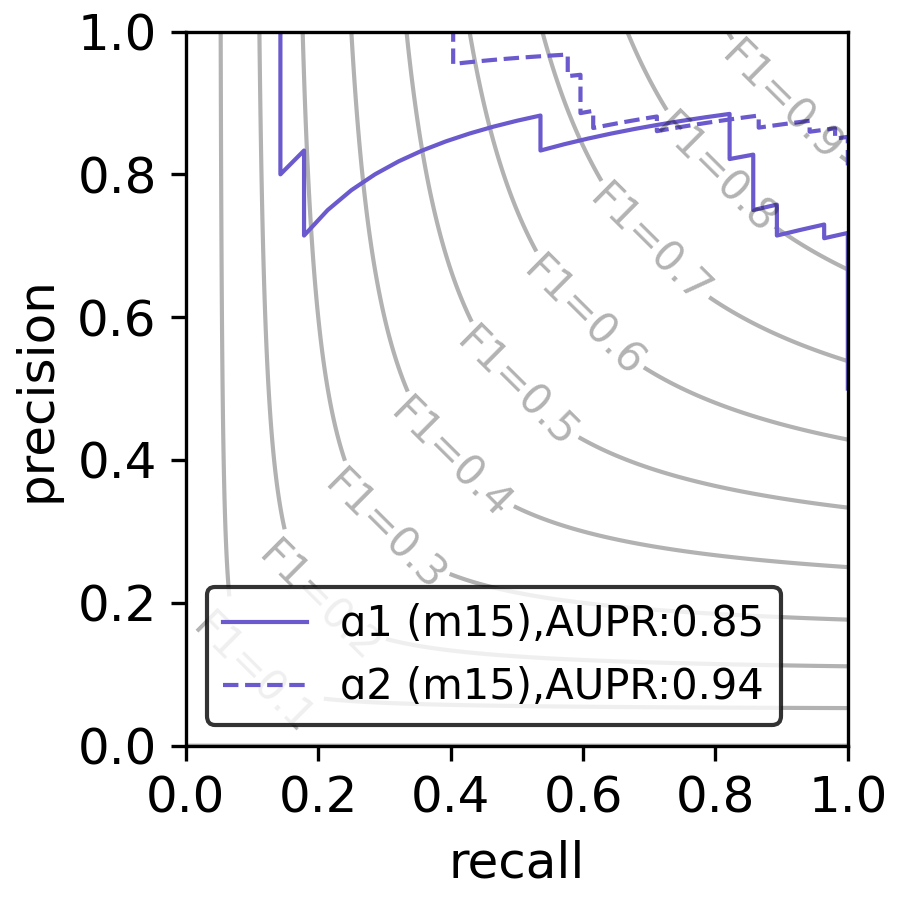
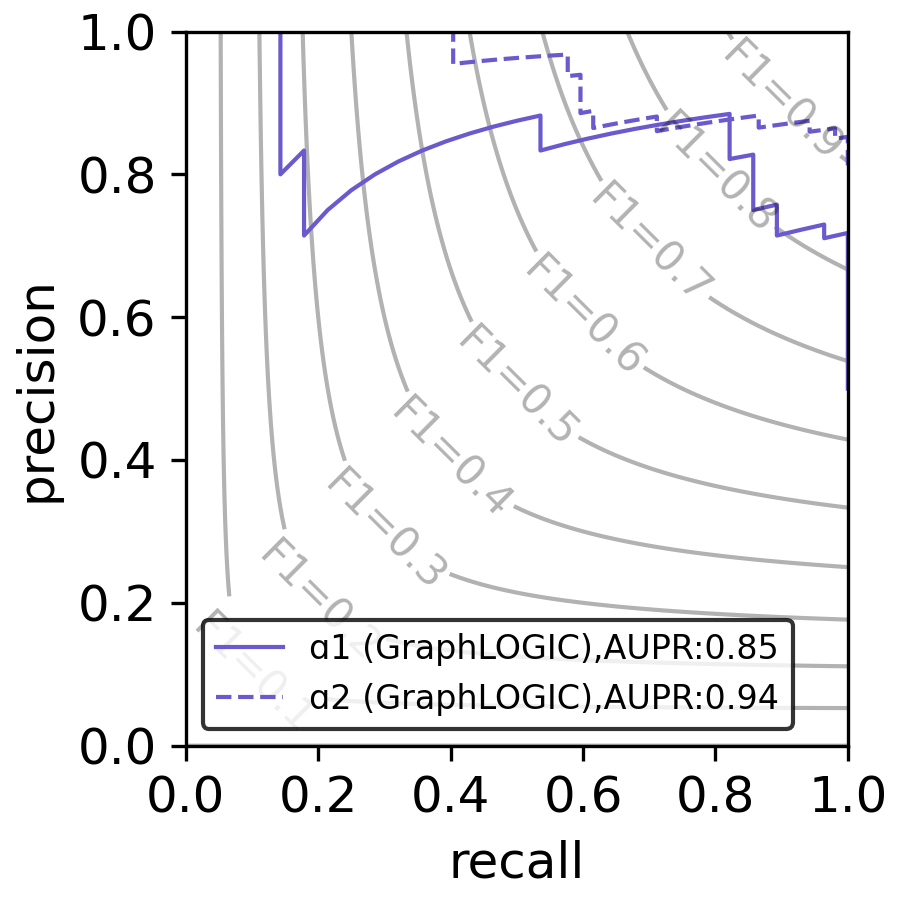
20240414

Changed region(s): [[0.2178, 0.6222, 0.9022, 0.84]]

diff --git a/predictor.py b/predictor.py
@@ -1,0 +1,162 @@
+import shutil
+import torch 
+from torch import nn
+import numpy as np 
+import pickle
+from argparse import ArgumentParser
+from model import GAT_n_tot
+from dataset import dataset_sel
+from scipy.spatial import distance_matrix
+from torch_geometric.data import InMemoryDataset
+from torch_geometric.data import Data
+from torch_geometric.loader import DataLoader
+
+# label #
+lethal_label = ["Lethal", "Non-Lethal"]
+
+# load graph #
+real_structure_a11 = np.load("./reference_structure/alpha1_1.npy")
+real_structure_a2 = np.load("./reference_structure/alpha2.npy")
+real_structure_a12 = np.load("./reference_structure/alpha1_2.npy")
+
+# load embedding #
+with open("./node_embedding/ma1_alpha1_bert.pt", "rb") as fp: 
+    ma1_alpha1 = pickle.load(fp)
+with open("./node_embedding/ma1_alpha2_bert.pt", "rb") as fp: 
+    ma1_alpha2 = pickle.load(fp)
+with open("./node_embedding/ma2_alpha1_bert.pt", "rb") as fp:
+    ma2_alpha1 = pickle.load(fp)
+with open("./node_embedding/ma2_alpha2_bert.pt", "rb") as fp: 
+        ma2_alpha2 = pickle.load(fp)
+
+# load pos and label #
+pos_tabel = np.load("./node_embedding/pos.npy").reshape(-1,1)
+type_tabel = np.load("./node_embedding/label.npy")
+
+# get edge index #
+def real_edge(pos,cutoff=12):
+    text_pos = int((pos-1)*3+12)
+    text_pos2 = int((pos-1)*3+9)
+    #print(text_pos)
+    a11 = real_structure_a11[text_pos-12:text_pos+15,:]
+    a12 = real_structure_a12[text_pos-12:text_pos+15,:]
+    if (pos==1):
+        a2 = real_structure_a2[text_pos2-9:text_pos2+15,:]
+    elif(pos>=335):
+        a2 = real_structure_a2[text_pos2-12:1026,:]
+    else:
+        a2 = real_structure_a2[text_pos2-12:text_pos2+15,:]
+    p_ = np.vstack((a11,a2))
+    tot_p_ = np.vstack((p_,a12))
+    dm = distance_matrix(tot_p_,tot_p_)
+    result = np.where((np.triu(dm,1)<=cutoff) & (np.triu(dm,1)!=0))
+
+    return np.array(np.vstack((result[0].T,result[1].T)))
+
+# get embedding node #
+def embedding_node(x1,x2,x3):
+    total_t = np.zeros((x1.shape[0]+x2.shape[0]+x3.shape[0],1024))
+    num = 0
+    for i in x1:
+        total_t[num,:] = i
+        num+=1
+    for i in x2:
+        total_t[num,:] = i
+        num+=1
+    for i in x3:
+        total_t[num,:] = i
+        num+=1
+    return total_t
+
+# get mutation type #
+def get_pos_type(t,p,tt,pt):
+    tn = mutation_embedding3(t)
+    tn_s = np.where(tt==tn)[0]
+    pt_s = np.where(pt==p)[0]
+    return np.intersect1d(tn_s,pt_s)[0]
+
+# mutation_embeddin #
+def mutation_embedding3(x1):
+    sequence_dict = {"Ala":"A" ,"Cys":"C","Asp":"D","Glu":"E","Pro":"P","Arg":"R","Ser":"S","Val":"V","Trp":"W"}
+    sequence_list = np.array(["A" ,"C","D","E","R","S","V","W","P"])
+    #amino_table[np.where(sequence_list == sequence_dict[x1])[0][0]] = 1
+    return np.where(sequence_list == sequence_dict[x1])[0][0]
+
+# data format #
+class predict_data(InMemoryDataset):
+    def __init__(self, pos, mutation, chain, root="./predict_data", transform = None, pre_transform = None):
+        self.pos = pos
+        self.mutation = mutation
+        self.chain = chain
+        super(predict_data, self).__init__(root, transform, pre_transform)
+        self.data, self.slices = torch.load(self.processed_paths[0])
+    
+    @property
+    def processed_file_names(self):
+        return ['data.pt']
+    
+    def process(self):
+
+        triplet_num = int(((((int(args.pos))-13)/3)+5))
+
+        edge = real_edge(triplet_num,cutoff=12)
+        edge_index = torch.tensor(edge, dtype=torch.long)
+
+        if args.chn=="a1":
+            pt_index = get_pos_type(args.mut,triplet_num,type_tabel,pos_tabel)
+            x = torch.tensor(embedding_node(ma1_alpha1[pt_index],ma1_alpha2[pt_index],ma1_alpha1[pt_index]), dtype=torch.float)
+        elif args.chn=="a2":
+            pt_index = get_pos_type(args.mut,triplet_num,type_tabel,pos_tabel)
+            x = torch.tensor(embedding_node(ma2_alpha1[pt_index],ma2_alpha2[pt_index],ma2_alpha1[pt_index]), dtype=torch.float)
+        else:
+            print("Please input correct argument for chain")
+
+        data_list = []
+        data_list.append(Data(x=x,edge_index=edge_index))
+        self.dataset = data_list
+
+        if self.pre_filter is not None:
+            data_list = [data for data in data_list if self.pre_filter(data)]
+
+        if self.pre_transform is not None:
+            data_list = [self.pre_transform(data) for data in data_list]
+
+        data, slices = self.collate(data_list)
+        torch.save((data, slices), self.processed_paths[0])
+    def get_dataset(self):
+        return self.dataset
+
+# model path #
+save_dir = "./bert4_final_d15/"
+
+# load dataset (only or model initialization) #
+data = dataset_sel("bert4_total_real")
+train_dataset, test_dataset = data.load()
+
+# initial model #
+model = GAT_n_tot(test_dataset,1)
+model.load_state_dict(torch.load(f'{save_dir}model{3}_dict.pt',
+            map_location='cpu'))
+
+
+# load input argument #
+parser = ArgumentParser()
+parser.add_argument("-p",dest="pos", help="where position?")
+parser.add_argument("-m",dest="mut", help="what substitute type? (Ser, Arg ...)")
+parser.add_argument("-c",dest="chn", help="which chains? (a1,a2)")
+args = parser.parse_args()
+
+# data process #
+data = predict_data(args.pos, args.mut, args.chn)
+full_loader = DataLoader(data, len(test_dataset), shuffle=False)
+
+# prediction #
+with torch.no_grad():
+    model.eval()
+    for data_ in full_loader:
+        out = model(data_ ,data_ .edge_index)
+        out = nn.Softmax(dim=1)(out)
+        pred = out.argmax(dim=1)
+
+print(f"Predict result: {lethal_label[pred]}")
+shutil.rmtree('predict_data')

diff --git a/ref-2015/check_2015_a2.py b/ref-2015/check_2015_a2.py
@@ -1,0 +1,131 @@
+# coding: utf-8
+
+import warnings
+
+from os import path
+from sys import path as systemPath
+
+import numpy as np
+from pysam import FastaFile
+sequences_object = FastaFile('../reference_structure/homo_sapiens.fasta')
+alpha1 = list(sequences_object.fetch("NP_000079.2"))
+alpha2 = list(sequences_object.fetch("NP_000080.2"))
+
+def real_sequence(pos):
+    text_pos = int((pos-1)*3+12)
+    text_pos2 = int((pos-1)*3+9)
+    #print(text_pos)
+    a11 = alpha1[text_pos-12:text_pos+15]
+    if (pos==1):
+        a2 = alpha2[text_pos2-9:text_pos2+15]
+    elif(pos>=335):
+        a2 = alpha2[text_pos2-12:1026]
+    else:
+        a2 = alpha2[text_pos2-12:text_pos2+15]
+    return a11,a2
+
+def batch_seq(seq):
+    a1 = []
+    for i in seq:
+        a1n,a2n = real_sequence(i)
+        a1.append(a1n)
+    return np.array(a1).reshape(-1,27)
+
+type_dict = {"P":0,"G":1,"A":1,"C":1,"S":1,"T":1,"H":2,"K":2,"R":2,"E":2,"D":2,"V":3,"I":3,"L":3,"M":3,"F":3,"Y":3,"W":3,"N":4,"Q":4}
+sequence_dict = {"Ala":"A" ,"Phe":"F","Cys":"C","Sec":"U","Asp":"D","Asn":"N","Glu":"E","Gln":"Q","Gly":"G","Leu":"L","Ile":"I","His":"H","Pyl":"O","Met":"M","Pro":"P","Arg":"R","Ser":"S","Thr":"T","Val":"V","Trp":"W","Tyr":"Y","Lys":"K","Hyp":"P","Hse":"H"}
+
+def ecoding_amino_analysis(w,x,y,z):
+    amino_table = np.array(["Ala","Cys","Asp","Glu","Arg","Ser","Val","Trp","Pro"])
+    amino_ec = np.where(amino_table==w)[0]
+    if (y=="1.0"):
+        b = 1
+    else:
+        b = 2
+    if(z==True):
+        c = 0
+    else:
+        c = 1
+    return int(amino_ec), int(x), int(b), c
+
+def seq2type(x):
+    return type_dict[x]
+
+def ser_tree_a2(seq):
+    #print(seq[8])
+    if (seq2type(seq[16]) == 0 or seq2type(seq[16])==1 or seq2type(seq[16])==2 or seq2type(seq[16])==3):
+        if (seq2type(seq[17]) == 0 or seq2type(seq[17]) == 2 or seq2type(seq[17]) == 3):
+           return 1
+        elif (seq2type(seq[17]) == 1 or seq2type(seq[17]) == 4):
+            if (seq2type(seq[13]) ==1,seq2type(seq[13]) ==2):
+                return 1
+            elif (seq2type(seq[13]) ==0):
+                if (seq2type(seq[14]) ==0 or seq2type(seq[14]) ==3):
+                   return 1 
+                else:
+                    return 0
+
+    elif(seq2type(seq[16])==4):
+        return 1
+    print("out of cases")
+
+def cal_amino(t_d,t_d_f,type="ser"):
+    lcorr = 0
+    lncorr = 0
+    nlcorr = 0
+    nlncorr = 0
+    for i in range(0,t_d.shape[0]):
+        seq = t_d_f[i]
+        if (type=="ser"):
+            pred = str(ser_tree_a2(seq))
+        else:
+            print("error")
+        
+        if (t_d[i,2] == pred and t_d[i,2]=='0'):
+            lcorr += 1
+        elif (t_d[i,2] == pred and t_d[i,2]=='1'):
+            nlcorr += 1
+        elif (t_d[i,2] != pred and t_d[i,2]=='0'):
+            lncorr += 1
+        elif (t_d[i,2] != pred and t_d[i,2]=='1'):
+            nlncorr += 1
+        else:
+            print("what?")
+
+    return lcorr, lncorr, nlcorr, nlncorr
+
+
+if __name__ == '__main__':
+
+    total_data_train_alpha1 = np.load("../dataset/alpha2_train.npy")
+    total_data_test_alpha1 = np.load("../dataset/alpha2_test.npy")
+    total_alpha1 = np.vstack((total_data_train_alpha1,total_data_test_alpha1))
+    '''
+    total_data_train_frag_alpha1 = np.load("../alpha1_data/alpha1_train_fragment_a1.npy")
+    total_data_test_frag_alpha1 = np.load("../alpha1_data/alpha1_test_fragment_a1.npy")
+    total_alpha1_frag = np.vstack((total_data_train_frag_alpha1,total_data_test_frag_alpha1))
+    '''
+
+    ser_sample = total_alpha1[np.where(total_alpha1[:,1]=='Ser')[0],:]
+
+    ser_sample_pos = (((((ser_sample[:,0]).astype('int'))-13)/3)+5).reshape(-1,1)
+
+    ser_frag = (batch_seq(ser_sample_pos))
+
+    print("ser")
+    print(cal_amino(ser_sample,ser_frag))
+
+
+    #ser_sample_test = np.where(total_data_test_alpha1[:,1]=='Ser')[0]
+    #cys_sample_test = np.where(total_data_test_alpha1[:,1]=='Cys')[0]
+    #arg_sample_test = np.where(total_data_test_alpha1[:,1]=='Arg')[0]
+
+    #print(cal_amino(total_data_test_alpha1,total_data_test_frag_alpha1 ,ser_sample_test))
+    #print(cal_amino(total_data_test_alpha1,total_data_test_frag_alpha1 ,cys_sample_test,type="cys"))
+    #print(cal_amino(total_data_test_alpha1,total_data_test_frag_alpha1 ,arg_sample_test,type="arg"))
+
+
+
+
+
+
+

diff --git a/plot_pr_curve.py b/plot_pr_curve.py
@@ -82,7 +82,7 @@ def max_f1(precision,recall):
 if __name__ == '__main__':
 
     #prediction("bert4_total_real_8", './bert4_test_total8/')
-    prediction("bert4_total_real", './bert4_shuffle/')
+    prediction("bert4_total_real", './bert4_final_d15/')
     
     with open("./bert4_total_real.pt", "rb") as fp:   # Unpickling
         contact_12 = pickle.load(fp)
@@ -111,9 +111,9 @@ if __name__ == '__main__':
     a1_12_f1_max,a1_12_f1_max_index, a1_12_aupr = max_f1(precision_pr_12_a1, recall_pr_12_a1)
     a2_12_f1_max,a2_12_f1_max_index, a2_12_aupr = max_f1(precision_pr_12_a2, recall_pr_12_a2)
 
-    ax.plot(recall_pr_12_a1, precision_pr_12_a1, lw=1, color='slateblue', linestyle='solid', label=f"ɑ1 (shuffle),AUPR:{a1_12_aupr:.2}")
-    ax.plot(recall_pr_12_a2, precision_pr_12_a2, lw=1, color='slateblue', linestyle='dashed', label=f"ɑ2 (shuffle),AUPR:{a2_12_aupr:.2}")
-    plt.legend(loc='lower left',edgecolor="black")
+    ax.plot(recall_pr_12_a1, precision_pr_12_a1, lw=1, color='slateblue', linestyle='solid', label=f"ɑ1 (GraphLOGIC),AUPR:{a1_12_aupr:.2}")
+    ax.plot(recall_pr_12_a2, precision_pr_12_a2, lw=1, color='slateblue', linestyle='dashed', label=f"ɑ2 (GraphLOGIC),AUPR:{a2_12_aupr:.2}")
+    plt.legend(loc='lower left',edgecolor="black",fontsize=8)
 
     plt.xlabel('recall',fontsize=12)
     plt.ylabel('precision',fontsize=12)

diff --git a/README.md b/README.md
@@ -1,7 +1,7 @@
 ## Introduction
 GraphLOGIC: Graph-based Lethality predictor for OsteoGenesis Imperfecta for Collagen is implementation osteogenesis imperfecta of model for structural-informed lethality prediction. The code is published with "Developing clinical lethality predictive model of Osteogenesis Imperfecta by using graph neural network".
 
-On the other hand, others checkpoint and structure data were available in https://doi.org/10.6084/m9.figshare.24633969
+On the other hand, others checkpoint and structure data were available in https://doi.org/10.6084/m9.figshare.24633969, please download checkpoint into folder.
 
 ## Environment
 
@@ -18,9 +18,10 @@ pip install -r requirements.txt
 
 You can easy to run predicter.py to get result with position and mutation type:
 ```
-python predicter.py -pos 20 -mut ser
+python predictor.py -p 247 -m Ser -c a1
 ```
 and the result:
+![image info](./figure/image.png)
 
 ## Citing
 
